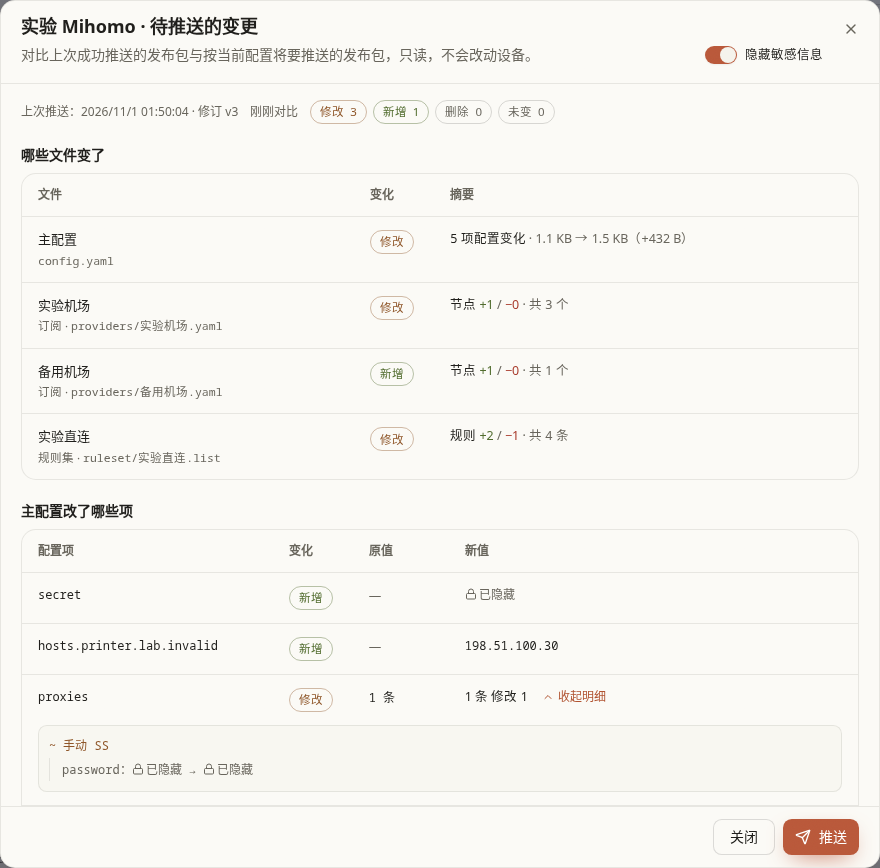
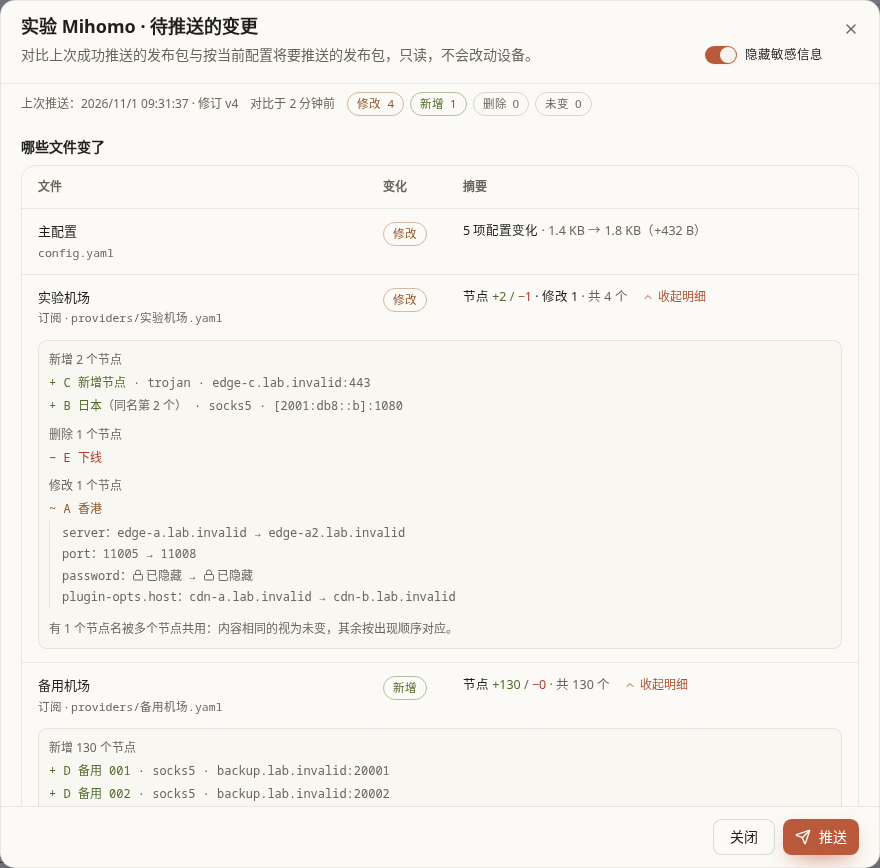
docs(agents): expand subscription and rule set rows, browser checks for them
push_diff_local.py now changes a subscription the way details have to show
(a node added, one removed, a repeated name, one modified in server, port,
password and plugin-opts.host), adds a 130-node subscription and a rule set
whose changes pass one file's limit; push_diff_browser.mjs expands them on a
light desktop and a dark phone, with 隐藏敏感信息 on and off.

diff --git a/scripts/tests/push_diff_local.py b/scripts/tests/push_diff_local.py
@@ -4,15 +4,17 @@
 Run on the test server only, from this checkout synced by rt. Touches no PVE guest:
 
   setup    fresh private data in /tmp/cf-pushdiff-local (refuses to overwrite): a subscription served by a
-           local fixture, a manual SS node with a password, a content rule set, ConfigFlow's access token
-           (系统设置 → 访问令牌) and one Mihomo Agent record
+           local fixture, a manual SS node with a password, a small and a large content rule set, ConfigFlow's
+           access token (系统设置 → 访问令牌) and one Mihomo Agent record
   serve    the private ConfigFlow on 127.0.0.1:15951 (foreground), plus the subscription fixture and a stand-in
            for the Agent's HTTP API: it answers capabilities and accepts a deployment (succeeded), so the push
            route stores the applied receipt and bundle exactly as for a real device. The record stays online.
   start    serve in the background (its own session, no inherited descriptors such as rt's lock) and wait
   prepare  (server running) push once as the baseline through the API, wait for 已同步, then make the edits of
            push_diff_lab.py change through the same API as the pages, plus a second subscription in the group
-           (its pull URL carries the access token)
+           (its pull URL carries the access token, its 130 nodes are more than one file lists). The subscription
+           gets a node added, one removed, one renamed twin and one modified (server, port, password and a nested
+           plugin-opts field); the large rule set gains 300 rules and loses 150 (more than one file lists).
   stop     stop a background serve;  clean  remove the private data
 
 Then: CF_PUSHDIFF_WORK=/tmp/cf-pushdiff-local CF_PUSHDIFF_AGENT='实验 Mihomo' node scripts/tests/push_diff_browser.mjs changed
@@ -42,8 +44,14 @@ AGENT_VERSION = '0a1b2c3d'  # the main file digest a real Agent reports after in
 PASSWORD_BEFORE = 'lab-manual-pass-before-7c1e'
 PASSWORD_AFTER = 'lab-manual-pass-after-93ab'
 CONTROLLER_SECRET = 'lab-controller-secret-5d20'
+NODE_PASSWORD_BEFORE = 'lab-node-pass-before-41f2'
+NODE_PASSWORD_AFTER = 'lab-node-pass-after-8d3c'
 RULES_BEFORE = '+.alpha.lab.invalid\n+.beta.lab.invalid\n+.gamma.lab.invalid'
 RULES_AFTER = '+.alpha.lab.invalid\n+.gamma.lab.invalid\n+.delta.lab.invalid\n+.epsilon.lab.invalid'
+# More changes than one file lists (200 rules): 300 added, 150 removed.
+BIG_BEFORE = '\n'.join(f'+.site-{index:04d}.big.lab.invalid' for index in range(1200))
+BIG_AFTER = '\n'.join([f'+.site-{index:04d}.big.lab.invalid' for index in range(150, 1200)]
+                      + [f'+.fresh-{index:03d}.big.lab.invalid' for index in range(300)])
 HOSTS_DOMAIN = 'printer.lab.invalid'
 CUSTOM = '''mixed-port: 7890
 allow-lan: true
@@ -58,14 +66,25 @@ dns:
   nameserver: [198.51.100.53]
   proxy-server-nameserver: [198.51.100.53]
 '''
-NODES = '''proxies:
-  - {name: A 香港, type: socks5, server: edge-a.lab.invalid, port: 1080}
-  - {name: B 日本, type: socks5, server: edge-b.lab.invalid, port: 1080}
+NODES = f'''proxies:
+  - {{name: A 香港, type: ss, server: edge-a.lab.invalid, port: 11005, cipher: aes-128-gcm,
+     password: {NODE_PASSWORD_BEFORE}, plugin: obfs, plugin-opts: {{mode: tls, host: cdn-a.lab.invalid}}}}
+  - {{name: B 日本, type: socks5, server: edge-b.lab.invalid, port: 1080}}
+  - {{name: E 下线, type: socks5, server: edge-e.lab.invalid, port: 1080}}
+'''
+# A 香港 changes server, port, password and plugin-opts.host; E 下线 goes; C 新增节点 and a second B 日本 arrive.
+NODES_AFTER = f'''proxies:
+  - {{name: A 香港, type: ss, server: edge-a2.lab.invalid, port: 11008, cipher: aes-128-gcm,
+     password: {NODE_PASSWORD_AFTER}, plugin: obfs, plugin-opts: {{mode: tls, host: cdn-b.lab.invalid}}}}
+  - {{name: B 日本, type: socks5, server: edge-b.lab.invalid, port: 1080}}
+  - {{name: C 新增节点, type: trojan, server: edge-c.lab.invalid, port: 443, password: lab-trojan-pass-c7}}
+  - {{name: B 日本, type: socks5, server: '2001:db8::b', port: 1080}}
 '''
 SUBSCRIPTIONS = {
     'airport-v1': NODES,
-    'airport-v2': NODES + '  - {name: C 新增节点, type: socks5, server: edge-c.lab.invalid, port: 1080}\n',
-    'backup': 'proxies:\n  - {name: D 备用, type: socks5, server: backup.lab.invalid, port: 1080}\n',
+    'airport-v2': NODES_AFTER,
+    'backup': 'proxies:\n' + ''.join(f'  - {{name: D 备用 {index:03d}, type: socks5, server: backup.lab.invalid, '
+                                     f'port: {20000 + index}}}\n' for index in range(1, 131)),
 }
 
 
@@ -135,12 +154,17 @@ def setup():
     rule = {'id': 'lab-direct', 'name': '实验直连', 'source_type': 'content', 'behavior': 'domain', 'format': 'text',
             'content': RULES_BEFORE, 'enabled': True}
     repo.create_rule_library_item(rule, RULES_BEFORE)
+    big = {'id': 'lab-big', 'name': '实验大规则集', 'source_type': 'content', 'behavior': 'domain', 'format': 'text',
+           'content': BIG_BEFORE, 'enabled': True}
+    repo.create_rule_library_item(big, BIG_BEFORE)
 
     def profile(document):
         document['proxy_groups'] = [{'id': 'lab-group', 'name': '代理', 'type': 'select', 'subscriptions': ['lab-airport'],
                                      'manual_nodes': ['lab-manual'], 'enabled': True}]
         document['rule_configs'] = [
             {'id': 'lab-direct-ref', 'itemType': 'ruleset', 'name': '实验直连', 'library_rule_id': 'lab-direct',
+             'policy': 'DIRECT', 'enabled': True, 'behavior': 'domain'},
+            {'id': 'lab-big-ref', 'itemType': 'ruleset', 'name': '实验大规则集', 'library_rule_id': 'lab-big',
              'policy': 'DIRECT', 'enabled': True, 'behavior': 'domain'},
             {'id': 'lab-match', 'itemType': 'rule', 'rule_type': 'MATCH', 'policy': '代理', 'enabled': True}]
         document.setdefault('mihomo', {}).update(custom_config=CUSTOM, provider_update_interval=3600)
@@ -282,9 +306,10 @@ def prepare():
     node = next(item for item in api('GET', '/nodes') if item['id'] == 'lab-manual')
     node['params']['password'] = PASSWORD_AFTER
     api('PUT', '/nodes/lab-manual', node)
-    rule = next(item for item in api('GET', '/rule-library') if item['id'] == 'lab-direct')
-    rule.pop('has_ip_part', None)
-    api('PUT', '/rule-library/lab-direct', {**rule, 'content': RULES_AFTER})
+    for rule_id, content in (('lab-direct', RULES_AFTER), ('lab-big', BIG_AFTER)):
+        rule = next(item for item in api('GET', '/rule-library') if item['id'] == rule_id)
+        rule.pop('has_ip_part', None)
+        api('PUT', f'/rule-library/{rule_id}', {**rule, 'content': content})
     custom = CUSTOM + f'secret: {CONTROLLER_SECRET}\nhosts:\n  {HOSTS_DOMAIN}: 198.51.100.30\n'
     api('POST', '/custom-config/mihomo', {'config': custom, 'provider_update_interval': 3600})
     write_subscription('airport', 'airport-v2')
@@ -296,8 +321,10 @@ def prepare():
     api('POST', '/subscriptions/lab-backup/fetch', {'preview': True})
     body = diff_status('changed')
     save('evidence/prepared-push-diff.json', body)
-    print(json.dumps({'counts': body.get('counts'), 'files': [(item['path'], item['status']) for item in body['files']],
-                      'items': [item['key'] for item in body['config']['items']]}, ensure_ascii=False))
+    print(json.dumps({'counts': body.get('counts'),
+                      'files': [(item['path'], item['status'], item.get('summary')) for item in body['files']],
+                      'items': [item['key'] for item in body['config']['items']],
+                      'bytes': len(json.dumps(body, ensure_ascii=False).encode())}, ensure_ascii=False))
 
 
 def start():

diff --git a/backend/agents/push_diff.py b/backend/agents/push_diff.py
@@ -953,6 +953,10 @@ def _node_entry(change, items, index, places):
     return entry
 
 
+# A modified node's fields read type, server and port first, then in the file's order.
+_NODE_FIELD_ORDER = {'type': 0, 'server': 1, 'port': 2}
+
+
 def _node_details(before, after, pairs, budget):
     """Which nodes were added, removed or modified, with field changes; bounded."""
     added, removed, modified, repeated = pairs
@@ -968,8 +972,8 @@ def _node_details(before, after, pairs, budget):
             if change == 'modified':
                 old_index, new_index = item
                 entry = _node_entry(change, after, new_index, new_places)
-                entry['fields'], entry['fields_omitted'] = _entry_fields(
-                    before[old_index][1], after[new_index][1], ('proxies',))
+                fields, entry['fields_omitted'] = _entry_fields(before[old_index][1], after[new_index][1], ('proxies',))
+                entry['fields'] = sorted(fields, key=lambda field: _NODE_FIELD_ORDER.get(field['key'], 3))
             elif change == 'added':
                 entry = _node_entry(change, after, item, new_places)
             else:

diff --git a/backend/test_agent_push_diff.py b/backend/test_agent_push_diff.py
@@ -522,6 +522,8 @@ def test_subscription_details_list_nodes_and_their_field_changes():
         'port': ('11005', '11008', False),
         'password': ([{'secret': 'hk-pass-before'}], [{'secret': 'hk-pass-after'}], True),
         'plugin-opts.host': ('cdn-a.example', 'cdn-b.example', False)}  # nested fields by path
+    # Server and port first, then the rest as the file writes them (here sorted by key).
+    assert [field['key'] for field in hk['fields']] == ['server', 'port', 'password', 'plugin-opts.host']
     jp_fields = {field['key']: field for field in jp['fields']}
     assert jp_fields['uuid']['sensitive'] and jp_fields['uuid']['new'] == [{'secret': 'jp-uuid-after-0002'}]
     host = jp_fields['ws-opts.headers.Host']
